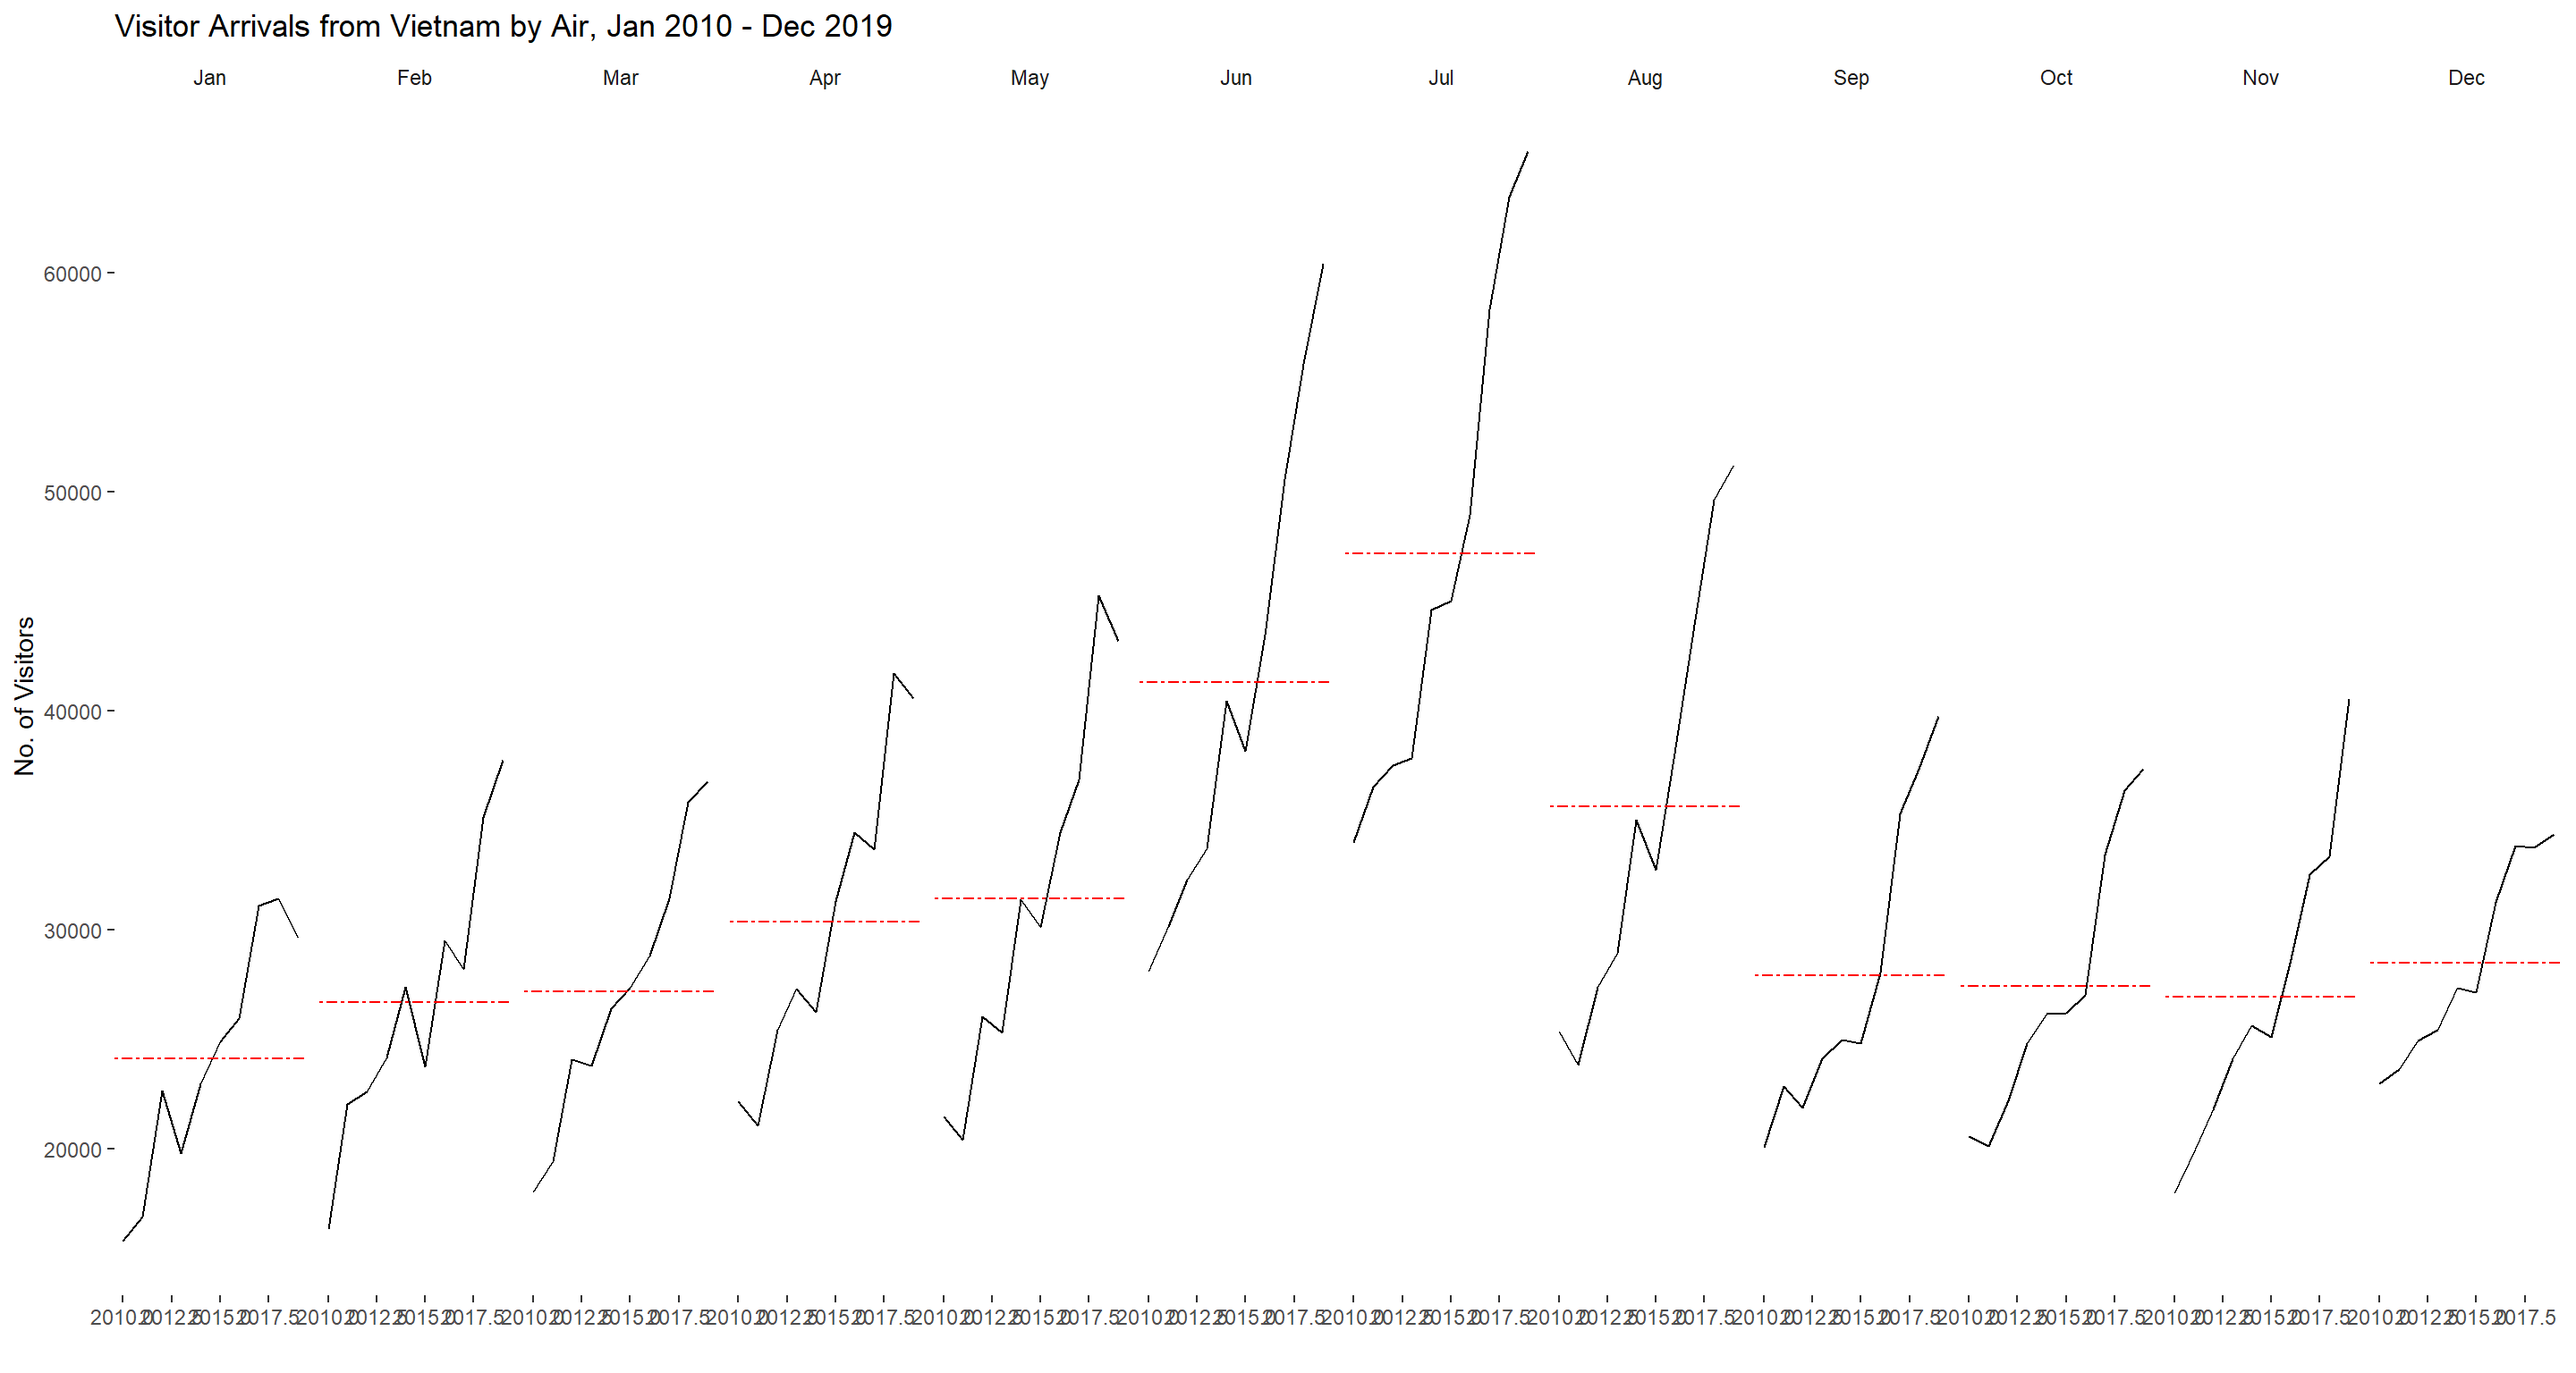
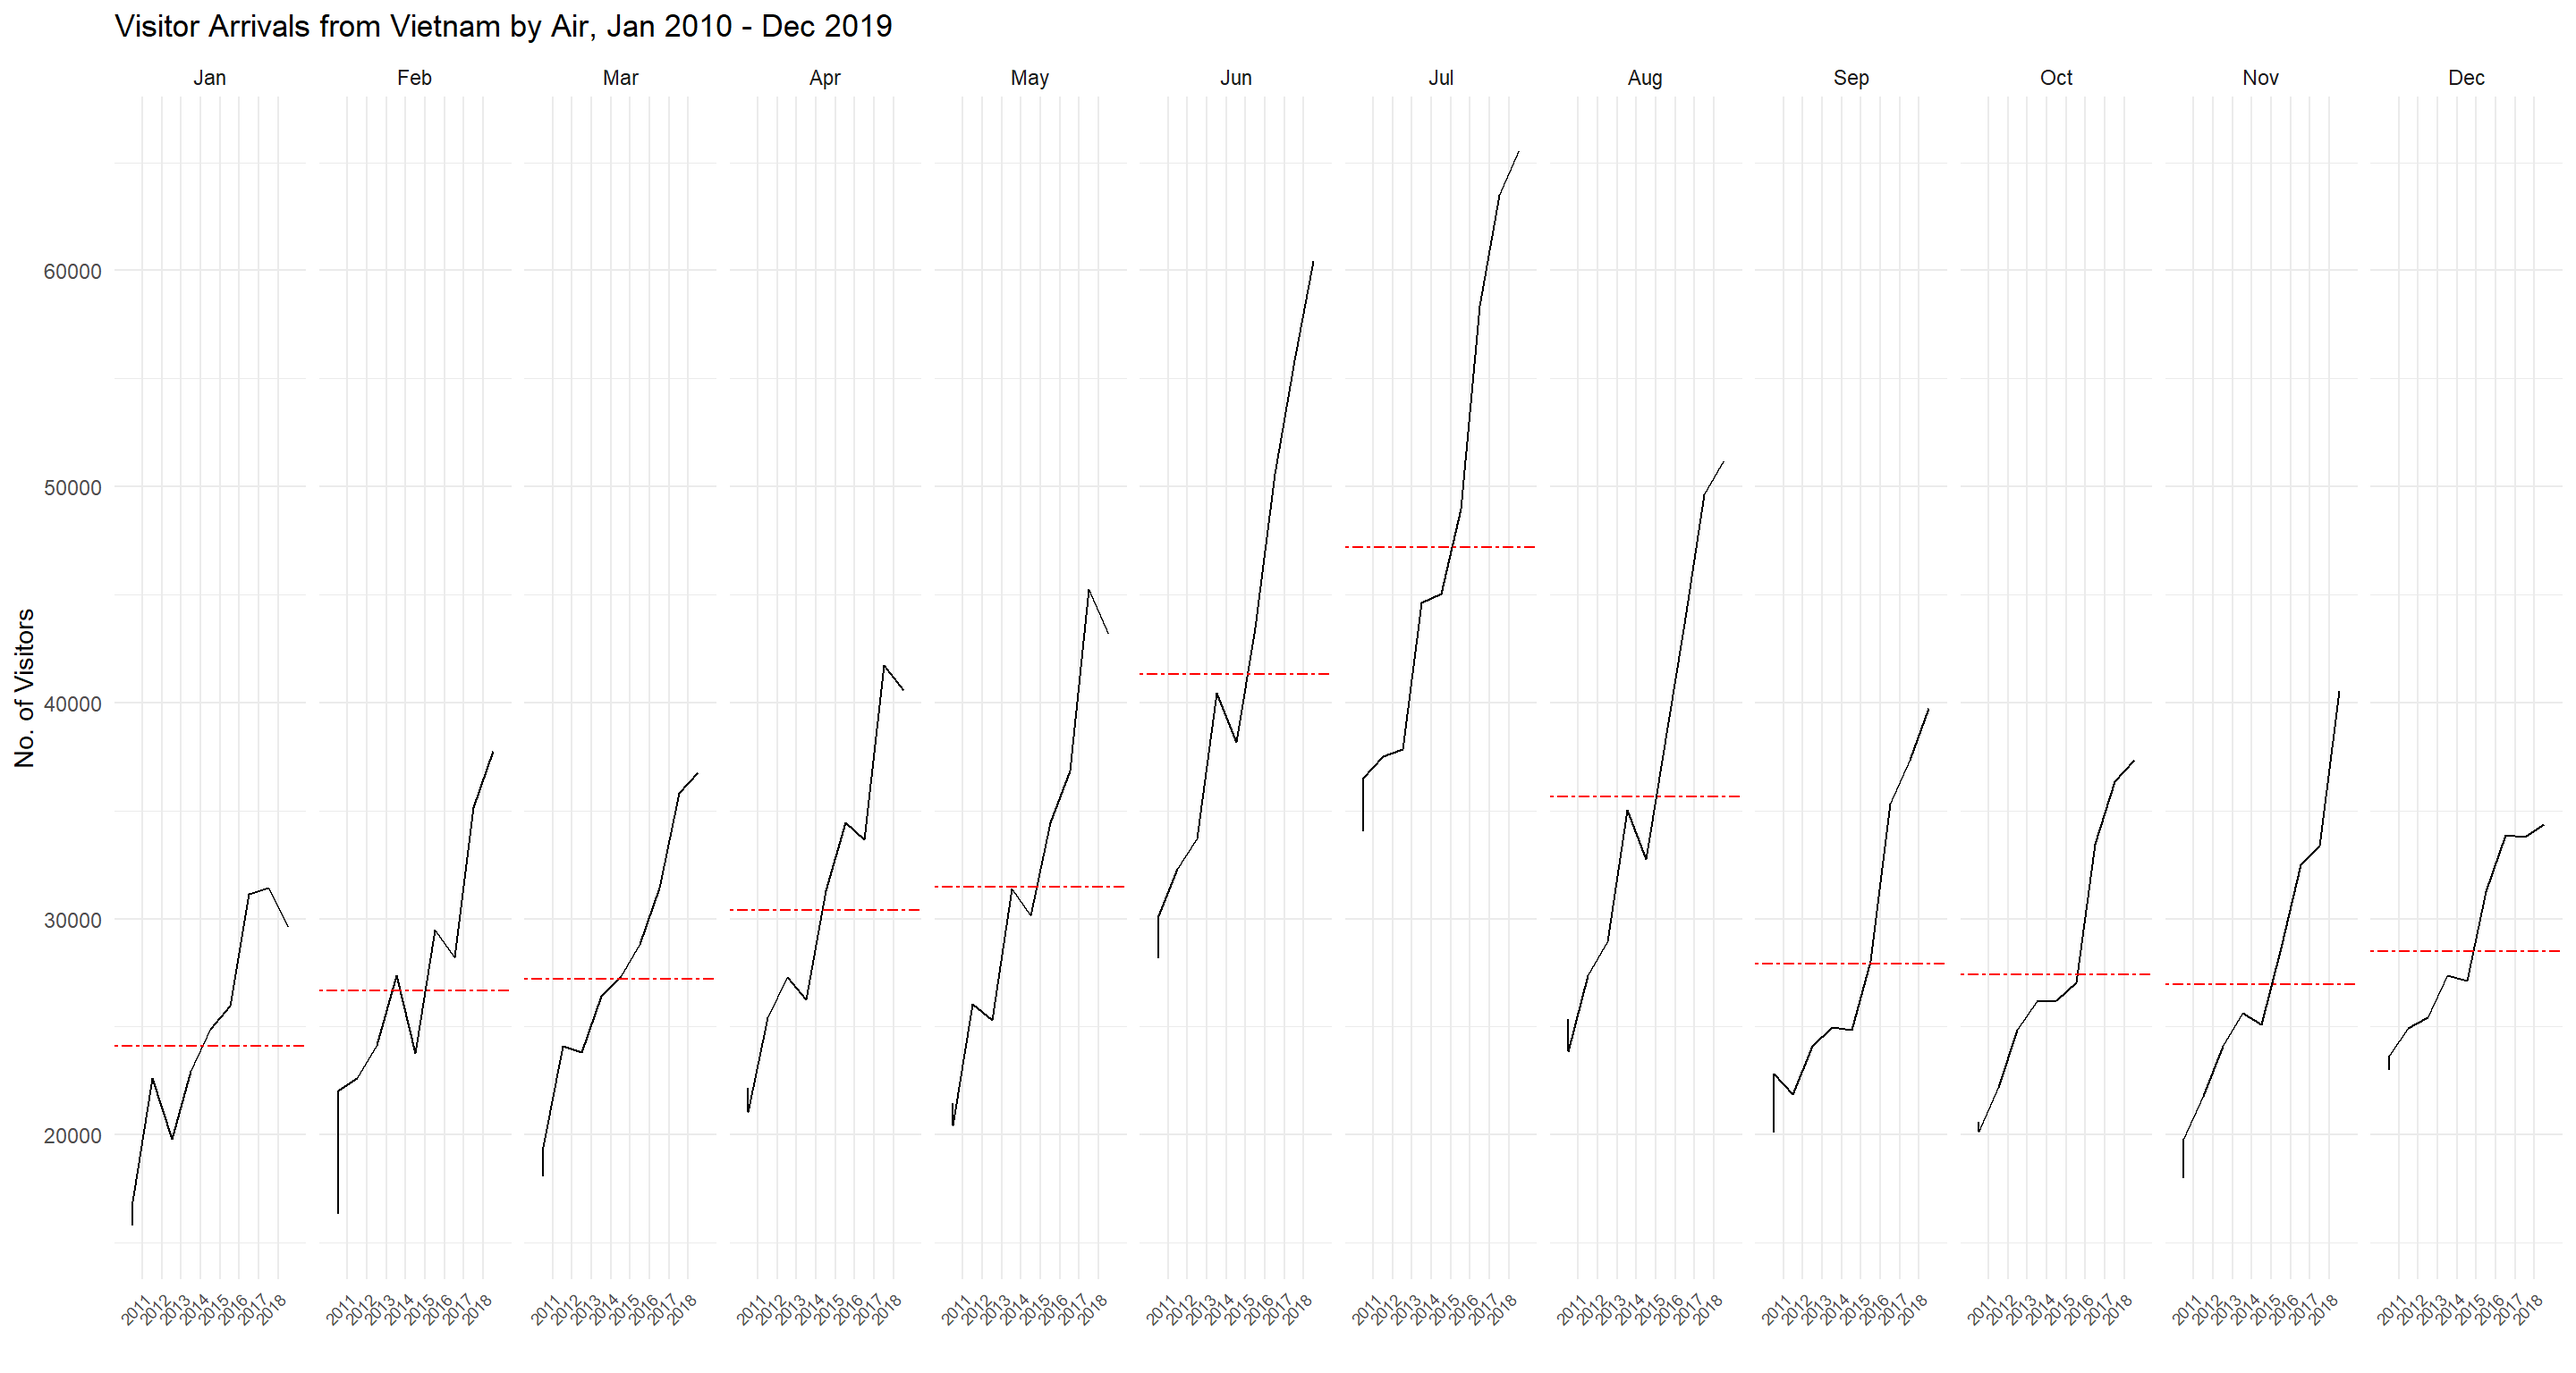
updates to handson 6

diff --git a/_site/Hands-on_Ex/Hands-on_Ex06/Hands-on_Ex06.html b/_site/Hands-on_Ex/Hands-on_Ex06/Hands-on_Ex06.html
@@ -455,7 +455,11 @@ pre > code.sourceCode > span > a:first-child::before { text-decoration: underlin
   <li><a href="#computing-year-average-arrivals-by-month" id="toc-computing-year-average-arrivals-by-month" class="nav-link" data-scroll-target="#computing-year-average-arrivals-by-month"><span class="header-section-number">4.4</span> Computing year average arrivals by month</a></li>
   <li><a href="#plotting-the-cycle-plot" id="toc-plotting-the-cycle-plot" class="nav-link" data-scroll-target="#plotting-the-cycle-plot"><span class="header-section-number">4.5</span> Plotting the cycle plot</a></li>
   </ul></li>
-  <li><a href="#slopegraph" id="toc-slopegraph" class="nav-link" data-scroll-target="#slopegraph"><span class="header-section-number">5</span> Slopegraph</a></li>
+  <li><a href="#slopegraph" id="toc-slopegraph" class="nav-link" data-scroll-target="#slopegraph"><span class="header-section-number">5</span> Slopegraph</a>
+  <ul class="collapse">
+  <li><a href="#importing-the-data-2" id="toc-importing-the-data-2" class="nav-link" data-scroll-target="#importing-the-data-2"><span class="header-section-number">5.1</span> Importing the Data</a></li>
+  <li><a href="#plotting-the-slopegraph" id="toc-plotting-the-slopegraph" class="nav-link" data-scroll-target="#plotting-the-slopegraph"><span class="header-section-number">5.2</span> Plotting the slopegraph</a></li>
+  </ul></li>
   <li><a href="#reference" id="toc-reference" class="nav-link" data-scroll-target="#reference"><span class="header-section-number">6</span> Reference</a></li>
   </ul>
 </nav>
@@ -489,7 +493,7 @@ pre > code.sourceCode > span > a:first-child::before { text-decoration: underlin
     <div>
     <div class="quarto-title-meta-heading">Modified</div>
     <div class="quarto-title-meta-contents">
-      <p class="date-modified">February 22, 2024</p>
+      <p class="date-modified">February 23, 2024</p>
     </div>
   </div>
     
@@ -864,7 +868,7 @@ Why use Cycle Plot?
 </div>
 <section id="importing-the-data-1" class="level2" data-number="4.1">
 <h2 data-number="4.1" class="anchored" data-anchor-id="importing-the-data-1"><span class="header-section-number">4.1</span> Importing the Data</h2>
-<p>For the purpose of this hands-on exercise, <code>arrivals_by_air.xlsx</code> will be used. This data file consists of 199,999 rows of time-series cyber attack records by country.</p>
+<p>For the purpose of this hands-on exercise, <code>arrivals_by_air.xlsx</code> will be used.</p>
 <p>First, we will use the code chunk below to import <code>arrivals_by_air.xlsx</code> file into R environment and call the tibble data frame as <code>air</code>.</p>
 <div class="cell">
 <details class="code-fold">
@@ -1568,7 +1572,9 @@ Why use Cycle Plot?
 <span id="cb16-14"><a href="#cb16-14" aria-hidden="true" tabindex="-1"></a>       <span class="at">title =</span> <span class="st">"Visitor Arrivals from Vietnam by Air, Jan 2010 - Dec 2019"</span>) <span class="sc">+</span></span>
 <span id="cb16-15"><a href="#cb16-15" aria-hidden="true" tabindex="-1"></a>  <span class="fu">xlab</span>(<span class="st">""</span>) <span class="sc">+</span></span>
 <span id="cb16-16"><a href="#cb16-16" aria-hidden="true" tabindex="-1"></a>  <span class="fu">ylab</span>(<span class="st">"No. of Visitors"</span>) <span class="sc">+</span></span>
-<span id="cb16-17"><a href="#cb16-17" aria-hidden="true" tabindex="-1"></a>  <span class="fu">theme_tufte</span>(<span class="at">base_family =</span> <span class="st">"sans serif"</span>)</span></code><button title="Copy to Clipboard" class="code-copy-button"><i class="bi"></i></button></pre></div>
+<span id="cb16-17"><a href="#cb16-17" aria-hidden="true" tabindex="-1"></a>  <span class="fu">theme_minimal</span>() <span class="sc">+</span></span>
+<span id="cb16-18"><a href="#cb16-18" aria-hidden="true" tabindex="-1"></a>  <span class="fu">scale_x_binned</span>(<span class="at">guide =</span> <span class="fu">guide_axis</span>(<span class="at">angle =</span> <span class="dv">45</span>)) <span class="sc">+</span></span>
+<span id="cb16-19"><a href="#cb16-19" aria-hidden="true" tabindex="-1"></a>  <span class="fu">theme</span>(<span class="at">axis.text.x =</span> <span class="fu">element_text</span>(<span class="at">size =</span> <span class="fu">rel</span>(<span class="fl">0.75</span>)))</span></code><button title="Copy to Clipboard" class="code-copy-button"><i class="bi"></i></button></pre></div>
 <div class="cell-output-display">
 <div>
 <figure class="figure">
@@ -1581,9 +1587,123 @@ Why use Cycle Plot?
 </section>
 <section id="slopegraph" class="level1" data-number="5">
 <h1 data-number="5"><span class="header-section-number">5</span> Slopegraph</h1>
+<p>In this section, we will learn how to plot a slopegraph using the package CGPfunctions.</p>
+<div class="callout callout-style-default callout-note callout-titled">
+<div class="callout-header d-flex align-content-center">
+<div class="callout-icon-container">
+<i class="callout-icon"></i>
+</div>
+<div class="callout-title-container flex-fill">
+Why do we use slopegraph?
+</div>
+</div>
+<div class="callout-body-container callout-body">
+<p>When we use slopegraphs, we are trying to show the amount of change and the direction of change between two data points. - The steeper the slope, the bigger the change; and, if one thing is going up more dramatically than its neighbors, a slopegraph will make that easier to see than a traditional line graph would.</p>
+<p><a href="https://www.storytellingwithdata.com/blog/2020/7/27/what-is-a-slopegraph">Source</a></p>
+</div>
+</div>
+<section id="importing-the-data-2" class="level2" data-number="5.1">
+<h2 data-number="5.1" class="anchored" data-anchor-id="importing-the-data-2"><span class="header-section-number">5.1</span> Importing the Data</h2>
+<p>For the purpose of this hands-on exercise, `rice.csv`` will be used.</p>
+<p>First, we will use the code chunk below to import <code>rice.csv</code> file into R environment and call the tibble data frame as `rice``.</p>
+<div class="cell">
+<details class="code-fold">
+<summary>Show the code</summary>
+<div class="sourceCode cell-code" id="cb17"><pre class="sourceCode r code-with-copy"><code class="sourceCode r"><span id="cb17-1"><a href="#cb17-1" aria-hidden="true" tabindex="-1"></a>rice <span class="ot">&lt;-</span> <span class="fu">read_csv</span>(<span class="st">"data/rice.csv"</span>)</span>
+<span id="cb17-2"><a href="#cb17-2" aria-hidden="true" tabindex="-1"></a><span class="fu">kable</span>(<span class="fu">head</span>(rice))</span></code><button title="Copy to Clipboard" class="code-copy-button"><i class="bi"></i></button></pre></div>
+</details>
+<div class="cell-output-display">
+<table class="table table-sm table-striped small">
+<thead>
+<tr class="header">
+<th style="text-align: left;">Country</th>
+<th style="text-align: right;">Year</th>
+<th style="text-align: right;">Yield</th>
+<th style="text-align: right;">Production</th>
+</tr>
+</thead>
+<tbody>
+<tr class="odd">
+<td style="text-align: left;">China</td>
+<td style="text-align: right;">1961</td>
+<td style="text-align: right;">20787</td>
+<td style="text-align: right;">56217601</td>
+</tr>
+<tr class="even">
+<td style="text-align: left;">China</td>
+<td style="text-align: right;">1962</td>
+<td style="text-align: right;">23700</td>
+<td style="text-align: right;">65675288</td>
+</tr>
+<tr class="odd">
+<td style="text-align: left;">China</td>
+<td style="text-align: right;">1963</td>
+<td style="text-align: right;">26833</td>
+<td style="text-align: right;">76439280</td>
+</tr>
+<tr class="even">
+<td style="text-align: left;">China</td>
+<td style="text-align: right;">1964</td>
+<td style="text-align: right;">28289</td>
+<td style="text-align: right;">85853780</td>
+</tr>
+<tr class="odd">
+<td style="text-align: left;">China</td>
+<td style="text-align: right;">1965</td>
+<td style="text-align: right;">29667</td>
+<td style="text-align: right;">90705630</td>
+</tr>
+<tr class="even">
+<td style="text-align: left;">China</td>
+<td style="text-align: right;">1966</td>
+<td style="text-align: right;">31445</td>
+<td style="text-align: right;">98403990</td>
+</tr>
+</tbody>
+</table>
+</div>
+</div>
+</section>
+<section id="plotting-the-slopegraph" class="level2" data-number="5.2">
+<h2 data-number="5.2" class="anchored" data-anchor-id="plotting-the-slopegraph"><span class="header-section-number">5.2</span> Plotting the slopegraph</h2>
+<div class="cell">
+<div class="sourceCode cell-code" id="cb18"><pre class="sourceCode r code-with-copy"><code class="sourceCode r"><span id="cb18-1"><a href="#cb18-1" aria-hidden="true" tabindex="-1"></a>rice <span class="ot">&lt;-</span> rice <span class="sc">%&gt;%</span></span>
+<span id="cb18-2"><a href="#cb18-2" aria-hidden="true" tabindex="-1"></a>  <span class="fu">mutate</span>(<span class="at">Year =</span> <span class="fu">factor</span>(Year)) <span class="sc">%&gt;%</span></span>
+<span id="cb18-3"><a href="#cb18-3" aria-hidden="true" tabindex="-1"></a>  <span class="fu">filter</span>(Year <span class="sc">%in%</span> <span class="fu">c</span>(<span class="dv">1961</span>, <span class="dv">1980</span>)) </span>
+<span id="cb18-4"><a href="#cb18-4" aria-hidden="true" tabindex="-1"></a></span>
+<span id="cb18-5"><a href="#cb18-5" aria-hidden="true" tabindex="-1"></a><span class="fu">glimpse</span>(rice)</span></code><button title="Copy to Clipboard" class="code-copy-button"><i class="bi"></i></button></pre></div>
+<div class="cell-output cell-output-stdout">
+<pre><code>Rows: 22
+Columns: 4
+$ Country    &lt;chr&gt; "China", "China", "India", "India", "Indonesia", "Indonesia…
+$ Year       &lt;fct&gt; 1961, 1980, 1961, 1980, 1961, 1980, 1961, 1980, 1961, 1980,…
+$ Yield      &lt;dbl&gt; 20787, 41435, 15419, 20002, 17623, 32928, 48793, 51279, 414…
+$ Production &lt;dbl&gt; 56217601, 142876520, 53494500, 80312000, 12084000, 29651900…</code></pre>
+</div>
+</div>
+<div class="cell">
+<div class="sourceCode cell-code" id="cb20"><pre class="sourceCode r code-with-copy"><code class="sourceCode r"><span id="cb20-1"><a href="#cb20-1" aria-hidden="true" tabindex="-1"></a><span class="fu">newggslopegraph</span>(rice,</span>
+<span id="cb20-2"><a href="#cb20-2" aria-hidden="true" tabindex="-1"></a>                Year, </span>
+<span id="cb20-3"><a href="#cb20-3" aria-hidden="true" tabindex="-1"></a>                Yield, </span>
+<span id="cb20-4"><a href="#cb20-4" aria-hidden="true" tabindex="-1"></a>                Country,</span>
+<span id="cb20-5"><a href="#cb20-5" aria-hidden="true" tabindex="-1"></a>                <span class="at">Title =</span> <span class="st">"Rice Yield of Top 11 Asian Countries"</span>,</span>
+<span id="cb20-6"><a href="#cb20-6" aria-hidden="true" tabindex="-1"></a>                <span class="at">SubTitle =</span> <span class="st">"1961 - 1980"</span>,</span>
+<span id="cb20-7"><a href="#cb20-7" aria-hidden="true" tabindex="-1"></a>                <span class="at">Caption =</span> <span class="st">"Prepared by: Goh Si Hui"</span>,</span>
+<span id="cb20-8"><a href="#cb20-8" aria-hidden="true" tabindex="-1"></a>                <span class="at">DataLabelPadding =</span> <span class="fl">0.05</span></span>
+<span id="cb20-9"><a href="#cb20-9" aria-hidden="true" tabindex="-1"></a>                )</span></code><button title="Copy to Clipboard" class="code-copy-button"><i class="bi"></i></button></pre></div>
+<div class="cell-output-display">
+<div>
+<figure class="figure">
+<p><img src="Hands-on_Ex06_files/figure-html/unnamed-chunk-19-1.png" class="img-fluid figure-img" width="672"></p>
+</figure>
+</div>
+</div>
+</div>
+</section>
 </section>
 <section id="reference" class="level1" data-number="6">
 <h1 data-number="6"><span class="header-section-number">6</span> Reference</h1>
+<p>Kam, T. S. (2023). R for Visual Analytics [Web-book]. https://r4va.netlify.app/.</p>
 
 
 </section>
